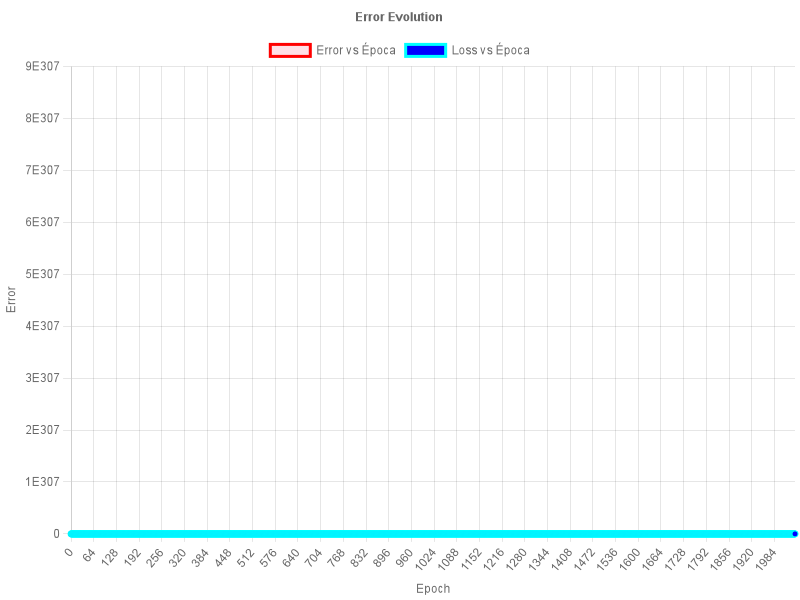
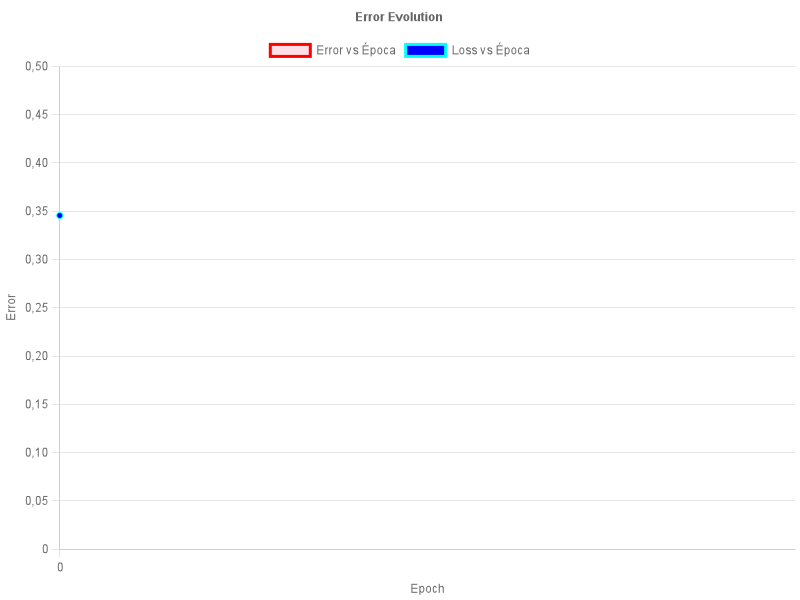
I understand the issue, but let's move because we are not getting stucked over the Perceptron only.

diff --git a/src/domain/entities/training/PerceptronTrainer.ts b/src/domain/entities/training/PerceptronTrainer.ts
@@ -4,10 +4,11 @@ import {Optimizer} from "../../interfaces/Optimizer.ts";
 import {CanvasService} from "../../../application/services/CanvasService.ts";
 import {LossFunction} from "../../interfaces/LossFunction.ts";
 import { ActivationFunction } from "../../interfaces/ActivationFunction.ts";
+import {Scheduler} from "../../interfaces/Scheduler.ts";
 
 export class PerceptronTrainer implements Trainer {
 
-    constructor(public optimizer: Optimizer){}
+    constructor(public optimizer: Optimizer, public scheduler: Scheduler){}
 
     public train(errorMargin: number, perceptron: Perceptron, lossFunction: LossFunction, traningDataset: number[], targetFunction: Function, activationFunction: ActivationFunction): boolean {
         let epochs = 0;
@@ -16,16 +17,6 @@ export class PerceptronTrainer implements Trainer {
         while (true) {
             epochs++;
             for (const element of traningDataset) {
-
-                //guide
-                //output = model.forward(text, offsets)
-                //loss = criterion(output, label)
-                //loss.backward()
-                //optimizer.step()
-
-                //train_loss += loss.item() * len(output)
-                //train_acc += (output.argmax(1) == label).sum().item()
-
                 let target = targetFunction(element);
 
                 /*PERCEPTRON FORWARD*/
@@ -48,19 +39,19 @@ export class PerceptronTrainer implements Trainer {
                 }
                 /*****************************************/
 
-                if (epochs === 1) {
-                    this.optimizer.initializeMomentum(perceptron.weights.length);
-                }
-
                 /*equivalent to loss.backward()*/
                 const errorGradient = perceptron.backward(target, output);
                 /*******************************/
 
                 /*Equivalent to optimizer.step()*/
-                const adaptiveLearningRate = this.optimizer.updateLearningRate(epochs);
                 const gradient = errorGradient * activationFunction.derivative(preActivationOutput);
                 const weightGradients = element * gradient;
-                this.optimizer.update(perceptron, weightGradients, gradient, adaptiveLearningRate);
+
+                const currentLearningRate = this.scheduler.getLearningRate(epochs);
+                this.optimizer.setLearningRate(currentLearningRate);
+                this.optimizer.updateParameters(perceptron.weights, [weightGradients]);
+                perceptron.bias = this.optimizer.updateBias(perceptron.bias, gradient);
+                console.log("WEIGHTS", perceptron.weights, perceptron.bias);
                 /*******************************/
             }
         }

diff --git a/src/domain/entities/optimizers/SGD.ts b/src/domain/entities/optimizers/SGD.ts
@@ -1,36 +1,39 @@
 import { Optimizer } from "../../interfaces/Optimizer.ts";
-import {Perceptron} from "../Perceptron.ts";
 
 export class SGD implements Optimizer {
-    private momentumVelocity: number[];
+    private learningRate: number;
+    private momentum: number;
+    private velocities: number[];
     private biasVelocity: number;
 
-    constructor(public initialLearningRate: number, public decayRate: number = 0.001, public minLearningRate: number = 0.000001, public momentum: number = 0.9) {
-        this.momentumVelocity = [];
+    constructor(learningRate: number, momentum: number = 0.9) {
+        this.learningRate = learningRate;
+        this.momentum = momentum;
+        this.velocities = [];
         this.biasVelocity = 0;
     }
 
-    updateLearningRate(epoch: number): number {
-        let newLearningRate = this.initialLearningRate / (1 + this.decayRate * epoch);
-        return Math.max(newLearningRate, this.minLearningRate);
-    }
+    public updateParameters(parameters: number[], gradients: number[]): void {
+        if (this.velocities.length === 0) {
+            this.velocities = new Array(parameters.length).fill(0);
+        }
 
-    initializeMomentum(weightsLength: number): void {
-        if (this.momentumVelocity.length === 0) {
-            this.momentumVelocity = Array(weightsLength).fill(0);
-            this.biasVelocity = 0;
+        for (let i = 0; i < parameters.length; i++) {
+            this.velocities[i] = this.momentum * this.velocities[i] - this.learningRate * gradients[i];
+            parameters[i] += this.velocities[i];
         }
     }
 
-    update(perceptron: Perceptron, weightGradient: number, gradientB: number, learningRate: number): void {
-        if (this.momentumVelocity.length === 0) return;
+    public updateBias(bias: number, gradient: number): number {
+        this.biasVelocity = this.momentum * this.biasVelocity - this.learningRate * gradient;
+        return bias + this.biasVelocity;
+    }
 
-        for (let i = 0; i < perceptron.weights.length; i++) {
-            this.momentumVelocity[i] = this.momentum * this.momentumVelocity[i] + weightGradient;
-            perceptron.weights[i] -= learningRate * this.momentumVelocity[i];
-        }
+    public setLearningRate(learningRate: number): void {
+        this.learningRate = learningRate;
+    }
 
-        this.biasVelocity = this.momentum * this.biasVelocity + gradientB;
-        perceptron.bias -= learningRate * this.biasVelocity;
+    public getLearningRate(): number {
+        return this.learningRate;
     }
 }

diff --git a/tests/training/Trainer.test.ts b/tests/training/Trainer.test.ts
@@ -3,11 +3,11 @@ import {Perceptron} from "../../src/domain/entities/Perceptron";
 import {PerceptronTrainer} from "../../src/domain/entities/training/PerceptronTrainer";
 import {SGD} from "../../src/domain/entities/optimizers/SGD";
 import {MeanSquareErrorLossFunction} from "../../src/domain/entities/training/MeanSquareErrorLossFunction";
+import {ExponentialDecay} from "../../src/domain/entities/optimizers/ExponentialDecay";
 
 describe("Trainer Tests", (): void => {
     const errorMargin: number = 0.001;
     const learningRate: number = 0.001;
-    const decayRate: number = 0.01;
 
     it("Should train with adaptativeLearningRate and from -50 to 50 as input with a linear activation function", () => {
         let weights: number[] = [0];
@@ -18,15 +18,42 @@ describe("Trainer Tests", (): void => {
             (Math.random() - 0.5) * 100
         );
         const targetFunction: Function = (input: number) => 2 * input;
+        let decay = 0.9;
 
-        const optimizer = new SGD(learningRate, decayRate, 0.0001, 0.9);
+        const optimizer = new SGD(learningRate);
+        const scheduler = new ExponentialDecay(learningRate, decay)
 
         const perceptron = new Perceptron(
             weights,
             bias
         );
 
-        let trainer = new PerceptronTrainer(optimizer);
+        let trainer = new PerceptronTrainer(optimizer, scheduler);
+        const finished = trainer.train(errorMargin, perceptron, lossFunction, trainingDataset, targetFunction, activationFunction);
+
+        expect(finished).toBe(true);
+    })
+
+    it("Should train with adaptativeLearningRate and from -500 to 500 as input with a linear activation function", () => {
+        let weights: number[] = [0];
+        let bias: number = 0;
+        const activationFunction = new IdentityActivationFunction();
+        const lossFunction = new MeanSquareErrorLossFunction();
+        const trainingDataset = Array(300).fill(0).map(() =>
+            (Math.random() - 0.5) * 1000
+        );
+        const targetFunction: Function = (input: number) => 2 * input;
+        let decay = 0.9;
+
+        const optimizer = new SGD(learningRate);
+        const scheduler = new ExponentialDecay(learningRate, decay)
+
+        const perceptron = new Perceptron(
+            weights,
+            bias
+        );
+
+        let trainer = new PerceptronTrainer(optimizer, scheduler);
         const finished = trainer.train(errorMargin, perceptron, lossFunction, trainingDataset, targetFunction, activationFunction);
 
         expect(finished).toBe(true);

diff --git a/tests/training/SGDWithPerceptron.test.ts b/tests/training/SGDWithPerceptron.test.ts
@@ -1,0 +1,29 @@
+import { SGD } from "../../src/domain/entities/optimizers/SGD";
+import { Perceptron } from "../../src/domain/entities/Perceptron";
+import { MeanSquareErrorLossFunction } from "../../src/domain/entities/training/MeanSquareErrorLossFunction";
+
+describe("SGD Optimizer with Perceptron", () => {
+    it("should update perceptron weights and bias correctly", () => {
+        const perceptron = new Perceptron([0.5, -0.5], 0.0);
+        const sgd = new SGD(0.1);
+        const lossFunction = new MeanSquareErrorLossFunction();
+
+        const input = [1.0, 2.0];
+        const target = 1.0;
+
+        const output = perceptron.forward(input);
+        const gradient = lossFunction.derivative(output, target);
+
+        const gradients = input.map(x => x * gradient);
+        gradients.push(gradient); // Adding bias gradient
+
+        const parameters = [...perceptron.weights, perceptron.bias];
+        sgd.updateParameters(parameters, gradients);
+
+        perceptron.weights = parameters.slice(0, -1);
+        perceptron.bias = parameters[parameters.length - 1];
+
+        expect(perceptron.weights).toEqual([0.4, -0.7]);
+        expect(perceptron.bias).toBe(-0.1);
+    });
+});

diff --git a/tests/unit/ExponentialDecay.test.ts b/tests/unit/ExponentialDecay.test.ts
@@ -1,0 +1,30 @@
+import {ExponentialDecay} from "../../src/domain/entities/optimizers/ExponentialDecay";
+
+describe("Exponential Decay", () => {
+    it("Should update the learning rate correctly on 2 epochs", () => {
+        let initialLearningRate = 0.1;
+        let decay = 0.9;
+
+        const exponentialDecay = new ExponentialDecay(initialLearningRate, decay);
+
+        expect(exponentialDecay.getLearningRate(2)).toBeCloseTo(0.08);
+    });
+
+    it("Should update the learning rate correctly on 10 epochs", () => {
+        let initialLearningRate = 0.1;
+        let decay = 0.9;
+
+        const exponentialDecay = new ExponentialDecay(initialLearningRate, decay);
+
+        expect(exponentialDecay.getLearningRate(10)).toBeCloseTo(0.034);
+    });
+
+    it("Should update the learning rate correctly on 100 epochs", () => {
+        let initialLearningRate = 0.1;
+        let decay = 0.9;
+
+        const exponentialDecay = new ExponentialDecay(initialLearningRate, decay);
+
+        expect(exponentialDecay.getLearningRate(100)).toBeCloseTo(0.00026);
+    });
+});

diff --git a/tests/unit/SGD.test.ts b/tests/unit/SGD.test.ts
@@ -1,0 +1,22 @@
+import {SGD} from "../../src/domain/entities/optimizers/SGD";
+
+describe("Stocastic Gradient Descent", () => {
+    it("Should initialize with the correct learning rate", () => {
+        const sgd = new SGD(0.01);
+        expect(sgd.getLearningRate()).toBe(0.01);
+    });
+
+    it("Should update parameters correctly", () => {
+        const sgd = new SGD(0.1);
+        const parameters = [0.5, 1.5, -0.5];
+        const gradients = [0.1, -0.2, 0.3];
+        sgd.updateParameters(parameters, 1, gradients);
+        expect(parameters).toEqual([0.49, 1.52, -0.53]);
+    });
+
+    it("Should set a new learning rate", () => {
+        const sgd = new SGD(0.01);
+        sgd.setLearningRate(0.05);
+        expect(sgd.getLearningRate()).toBe(0.05);
+    });
+});

diff --git a/src/domain/entities/optimizers/ExponentialDecay.ts b/src/domain/entities/optimizers/ExponentialDecay.ts
@@ -1,0 +1,19 @@
+import {Scheduler} from "../../interfaces/Scheduler.ts";
+
+export class ExponentialDecay implements Scheduler {
+    private initialLearningRate: number;
+    private decayRate: number;
+
+    constructor(initialLearningRate: number, decayRate: number) {
+        this.initialLearningRate = initialLearningRate;
+        this.decayRate = decayRate;
+    }
+
+    public getLearningRate(epoch: number): number {
+        return this.initialLearningRate * Math.pow(this.decayRate, epoch);
+    }
+
+    public getInitialLearningRate(): number {
+        return this.initialLearningRate;
+    }
+}

diff --git a/src/domain/interfaces/Optimizer.ts b/src/domain/interfaces/Optimizer.ts
@@ -1,7 +1,6 @@
-import {Perceptron} from "../entities/Perceptron.ts";
-
-export interface Optimizer {
-    updateLearningRate(epoch: number): number;
-    initializeMomentum(weightsLength: number): void;
-    update(perceptron: Perceptron, weightGradient: number, gradientB: number, learningRate: number): void;
+export interface Optimizer {
+    updateParameters(parameters: number[], gradients: number[]): void;
+    updateBias(bias: number, gradient: number): number;
+    setLearningRate(learningRate: number): void;
+    getLearningRate(): number;
 }

diff --git a/src/domain/entities/training/MeanSquareErrorLossFunction.ts b/src/domain/entities/training/MeanSquareErrorLossFunction.ts
@@ -5,8 +5,4 @@ export class MeanSquareErrorLossFunction implements LossFunction{
     public evaluate(output: number, target: number ): number {
         return ((output - target) * (output - target)) / 2;
     }
-
-    public derivative(output: number, target: number): number {
-        return output - target;
-    }
 }

diff --git a/src/domain/interfaces/LossFunction.ts b/src/domain/interfaces/LossFunction.ts
@@ -1,6 +1,4 @@
 export interface LossFunction {
 
     evaluate(output: number, target: number ) : number;
-
-    derivative(output: number, target: number) : number;
 }

diff --git a/src/domain/entities/Perceptron.ts b/src/domain/entities/Perceptron.ts
@@ -20,6 +20,6 @@
     }
 
     backward(target: number, output:number): number {
-        return target - output;
+        return output - target;
     }
 }

diff --git a/src/domain/interfaces/Scheduler.ts b/src/domain/interfaces/Scheduler.ts
@@ -1,0 +1,4 @@
+export interface Scheduler {
+    getLearningRate(epoch: number): number;
+    getInitialLearningRate(): number;
+}
